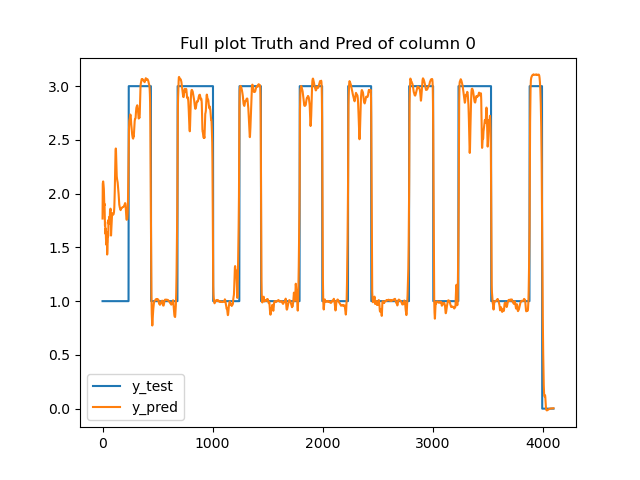
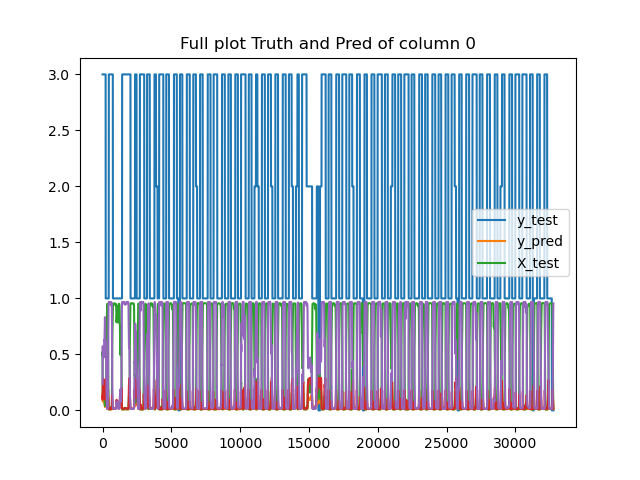
Symbols Classification funktioniert

diff --git a/train_lib_proc.py b/train_lib_proc.py
@@ -88,7 +88,7 @@ def memorize(filename, dataset):
     data = {} # dictionary containing data
     for name in dataset:  # loop over datasets named in list
         print("Memorizing timeseries: ", name)
-        if name in ["symbols", "words", "forbword", "fwshannon", "fwrenyi 0.25",
+        if name in ["symbolsR", "symbolsC", "words", "forbword", "fwshannon", "fwrenyi 0.25",
                     "fwrenyi 4", "wsdvar", "wpsum 02", 
                     "wpsum 13", "plvar 5", "plvar 10", 
                     "plvar 20", "phvar 20", "phvar 50", "phvar 100"]: # we construct non-linear parameters from BBI
@@ -165,7 +165,8 @@ def output_type(dic_seq, OUTPUT_name):
     """
     dic_types = {
         "ECG": "regressionECG", "MA": "regressionMA", "RP": "classificationRP", "BBI": "regressionBBI", 
-        "symbols": "classificationSymbols", "words": "distributionWords",
+        "symbolsR": "regressionSymbols",
+        "symbolsC": "classificationSymbols", "words": "distributionWords",
         "Tacho": "regressionTacho",
         "forbword": "parameter", "fwshannon": "parameter", "fwrenyi 0.25": "parameter",
         "fwrenyi 4": "parameter", "wsdvar": "parameter", "wpsum 02": "parameter", 
@@ -181,7 +182,7 @@ def output_type(dic_seq, OUTPUT_name):
                 # if key == 'RP': # Check ob Symbole einbezogen werden
                 #     out_types.append(dic_types[key] + str(0)) # number columns containing label
                 #     # Important for initializing model, loss function and plotting output
-                if key == 'symbols': # Check ob Symbole einbezogen werden
+                if key == 'symbolsC': # Check ob Symbole einbezogen werden mit Klassifikation
                     out_types.append(dic_types[key] + str(len(np.unique(dic_seq[key+name])))) # number columns containing label
                     # out_types.append(dic_types[key] + str(len(dic_seq[key+name][0,0,:]))) # number columns containing label
                     # out_types.append(dic_types[key] + str(1))
@@ -335,7 +336,7 @@ def constr_feat(data, NAME, length_item):
                         data[key][n]
                     )
                 feat_number += amount_cat - 1
-            if key == 'symbols': # Transform into one-hot vector
+            if 'symbols' in key: # Transform into one-hot vector
                 
                 # diese categorisierung nachbesser
                 # ist noch von BBI analyse
@@ -619,19 +620,16 @@ def setup_Conv_AE_LSTM_P(input_shape, size, samplerate):
         elif 'Tacho' in out_types[x]: # Tachogram regression output
             branch_dic["branch{0}".format(x)] = LSTM(size, return_sequences=True)(pred)
             branch_dic["branch{0}".format(x)] = Dense(1, activation="linear", name="Tacho_output")(branch_dic["branch{0}".format(x)])
-        elif 'classification' in out_types[x]: # symbols classification output
+        elif 'regressionSymbols' in out_types[x]: # symbols regression output
+            branch_dic["branch{0}".format(x)] = LSTM(size, return_sequences=True)(pred)
+            branch_dic["branch{0}".format(x)] = Dense(1, activation="linear", name="Symbols_output")(branch_dic["branch{0}".format(x)])
+        elif 'classificationSymbols' in out_types[x]: # symbols classification output
             branch_dic["branch{0}".format(x)] = LSTM(size, return_sequences=True)(pred)
             # amount_cat = count_cat(x) # counts amount of unique labels in time series
             amount_cat = extract_number(out_types[x]) # extracts number of categories from type-descritpion
             print("Anzahl an Kategorien: ", amount_cat)
-            if 'Symbols' in out_types[x]: # cases of different classifications
-                type_classification = 'Symbols_output'
-                # amount_cat = 4
-            elif 'Words' in out_types[x]:
-                type_classification = 'Words_output'
-            
-            branch_dic["branch{0}".format(x)] = Dense(amount_cat, activation='softmax' , name=type_classification)(branch_dic["branch{0}".format(x)])
-
+            # branch_dic["branch{0}".format(x)] = Flatten()(branch_dic["branch{0}".format(x)])
+            branch_dic["branch{0}".format(x)] = Dense(amount_cat, activation='softmax' , name='Symbols_output')(branch_dic["branch{0}".format(x)])
     
     # Concating outputs
     if len(out_types)>1: # check if multiple feature in output of NN
@@ -898,15 +896,59 @@ def RP_loss(y_true, y_pred):
 def symbols_loss(y_true, y_pred):
     """Custom LOSS function für symbol classification
     
-    
+    Here we use Sparse Crossentropy for every time step seperately and sum them up
+    The function returns a mean of the losses
     """
-    # amount_cat = count_cat(k) # count amount of categories in current classification time series
-    cce = K.losses.SparseCategoricalCrossentropy(from_logits=False) # function for LOSS of choice
-    # cce = K.losses.MeanSquaredError()
-    loss = cce(y_true, y_pred)
-    # tf.print("y_true: ", y_true)
+    sce = K.losses.SparseCategoricalCrossentropy(from_logits=False) # function for LOSS of choice
+    loss = tf.constant(0, dtype=tf.float16)
+    ds_samplerate = int(2**7) # We calculate CrossEntropy of at every second. This way we speed up training. There is a lot of redundancy in one second
+    for time in tf.range(y_true.shape[1], delta=ds_samplerate): # loop over time series with ds_samplerate steps
+        loss += sce(y_true[:,time], y_pred[:,time]) # sparse crossentropy of one time step. Very important. Crossentropy not defined for whole time series
+        
+    return loss/y_true.shape[1]
+
+def symbols_loss_reg(y_true, y_pred):
+        """
+        Custom LOSS function
+
+        Goal:  weighted sum of LOSSes of each Feature
+                - Weights are for different columns of Output Tensor
+                    - Weights decrease for each feature
+                    - this way the gradient for each additional feature is more gentle compared to previous features
+                    - this gives a loose order in which the LOSSes are minimized
+        """
+        
+        diff = (tf.cast(y_true, tf.float16) - y_pred)**2
+        
+        return tf.reduce_mean(diff, axis=-1)
+
+@tf.function
+def symbols_loss_tf(y_true, y_pred):
+    """Custom LOSS function für symbol classification
     
-    return loss
+    VERWORFEN
+    
+    Here we use Sparse Crossentropy for every time step seperately and sum them up
+    The function returns a mean of the losses
+    
+    As a TensorFlow graph for parallesation purposes
+    
+    Zu langsam im Aufbau des Trainings
+    """
+    def body(time, result):
+        sce = K.losses.SparseCategoricalCrossentropy(from_logits=False) # function for LOSS of choice
+        result += sce(y_true[:,time], y_pred[:,time])
+        time += 1
+        return i, result
+
+    def cond(time, result):
+        return time < y_true.shape[1]
+    
+    result = tf.constant(0, dtype=tf.float16)
+    i = tf.constant(0)
+    _, result = tf.while_loop(cond, body, [i, result])
+    
+    return result/y_true.shape[1]
     
 def index(y):
     """transforms one-hot vector into index vector

diff --git a/train_proc.py b/train_proc.py
@@ -113,11 +113,12 @@ def train(total_epochs=250,
                         # "ECG_output": 'MAE',
                         # "BBI_output": 'MAE'
                         # "RP_output": 'binary_accuracy'
-                        "Symbols_output": 'accuracy'
+                        "Symbols_output": 'sparse_categorical_accuracy'
                         })
         
         # Callback
-        escb = EarlyStopping(monitor='accuracy', patience=min(int(total_epochs/2),50), min_delta=0.001, mode="min") # 'Tacho_output_MAE' 'ECG_output_MAE' 'binary_accuracy'
+        # escb = EarlyStopping(monitor='MAE', patience=min(int(total_epochs/2),50), min_delta=0.001, mode="min") # 'Tacho_output_MAE' 'ECG_output_MAE' 'binary_accuracy'
+        escb = EarlyStopping(monitor='sparse_categorical_accuracy', patience=min(int(total_epochs/2),50), min_delta=0.0001, mode="max")
         
         # Train model on training set
         print("Training model...")
@@ -160,6 +161,10 @@ def train(total_epochs=250,
         example = np.random.randint(len(y_test[0][:,0]))
         plt.figure(1)
         plt.title("Full plot Truth and Pred of column 0")
+        if "classificationSymbols" in out_types[0]:
+                sparse_pred = np.array([0,1,2,3]) * y_pred[0]
+                sparse_pred = np.sum(sparse_pred, axis=-1)
+                y_pred[0] = sparse_pred
         plt.plot(list(range(len(y_test[0][0,:]))), y_test[0][example,:])
         plt.plot(list(range(len(y_pred[0][0,:]))), y_pred[0][example,:])
         if "ECG" in out_types[0]:
@@ -180,13 +185,20 @@ def train(total_epochs=250,
                 print("Could not find image name. Raise limit of rand.int above")
         plt.close()
         
-        # Preparation of output if classification of symbols and words was done
-        if "classificationS" in out_types or "distributionW" in out_types:
-            y_pred, dist_pred = tl.index(y_pred)
-            y_test, dist_test = tl.index(y_test)
-            print("Shape of final Output array: ", np.shape(y_test))
+        # # Preparation of output if classification of symbols and words was done
+        # if "classificationS" in out_types or "distributionW" in out_types:
+        #     y_pred, dist_pred = tl.index(y_pred)
+        #     y_test, dist_test = tl.index(y_test)
+        #     print("Shape of final Output array: ", np.shape(y_test))
             
         for k in range(len(y_pred)):
+            if "classificationSymbols" in out_types[k]:
+                sparse_pred = np.array([0,1,2,3]) * y_pred[k]
+                print("Shape of sparse_pred: ", np.shape(sparse_pred))
+                sparse_pred = np.sum(sparse_pred, axis=-1)
+                print("Shape of sparse_pred: ", np.shape(sparse_pred))
+                y_pred[k] = sparse_pred
+                print("Shape of y_pred: ", np.shape(y_pred[k]))
             plt.figure(k)
             plt.title(concat("Zoomed Truth and Pred of column ", str(k)))
             plt.plot(list(range(len(y_test[k][0,-2*samplerate:]))), y_test[k][example,-2*samplerate:])
@@ -210,22 +222,22 @@ def train(total_epochs=250,
             mlflow.log_artifact(path_fig)  # links plot to MLFlow run
             plt.close()
         
-        # Plot of classification of symbols and words output
-        if "classificationS" in out_types or "distributionW" in out_types:
-            print("Shape of hist", np.shape(dist_pred))
-            # in our case we have four symbols in words of three
-            plt.figure(1)
-            plt.title(str("Zoomed Truth and Pred of column distribution of " + data_list[k+1]))
-            plt.bar(np.arange(len(dist_test[0,:]))-0.5, dist_test[example,:])
-            plt.bar(np.arange(len(dist_pred[0,:]))+0.5, dist_pred[example,:])
-            # plt.plot(list(range(len(X_test[0,:,0]))), X_test[0,:,0])
-            plt.legend(["y_Test", "Prediction", "X_Test 0"])
-            name = concat("./ZoomPlot-Col-",str(k+1))
-            plt.savefig(name)
-            path_fig = "./Prediction-Image/" + str(z)+ "-Zoom-col" + str(k+1) + ".png"
-            plt.savefig(path_fig)  # saves plot
-            mlflow.log_artifact(path_fig)  # links plot to MLFlow run
-            plt.close()
+        # # Plot of classification of symbols and words output
+        # if "classificationS" in out_types or "distributionW" in out_types:
+        #     print("Shape of hist", np.shape(dist_pred))
+        #     # in our case we have four symbols in words of three
+        #     plt.figure(1)
+        #     plt.title(str("Zoomed Truth and Pred of column distribution of " + data_list[k+1]))
+        #     plt.bar(np.arange(len(dist_test[0,:]))-0.5, dist_test[example,:])
+        #     plt.bar(np.arange(len(dist_pred[0,:]))+0.5, dist_pred[example,:])
+        #     # plt.plot(list(range(len(X_test[0,:,0]))), X_test[0,:,0])
+        #     plt.legend(["y_Test", "Prediction", "X_Test 0"])
+        #     name = concat("./ZoomPlot-Col-",str(k+1))
+        #     plt.savefig(name)
+        #     path_fig = "./Prediction-Image/" + str(z)+ "-Zoom-col" + str(k+1) + ".png"
+        #     plt.savefig(path_fig)  # saves plot
+        #     mlflow.log_artifact(path_fig)  # links plot to MLFlow run
+        #     plt.close()
             
         # Plot multiple examples
         for l in range(10):

diff --git a/laboratory.py b/laboratory.py
@@ -29,9 +29,9 @@ print("Experiment_id: {}".format(experiment.experiment_id))
 
 train(NNsize=int(2**4), 
       total_epochs=50, 
-      length_item= 2**15, # raise this by using generator for data input in NN. Hopefully
+      length_item= 2**18, # Minimum 2**12. Because calc_symbols needs at leat 2 beats
       # INPUT_name = {"symbols": ["lag 0"]},
-      OUTPUT_name = {'symbols': ["lag 0"]},# 'RP': ["lag 0"]},# ,  "BBI": ["lag 0"]},# "ECG": ["lag 0"], {"BBI":["lag 0"], "symbols": ["lag 0"], "words": ["lag 0"]}, #  "BBI": ["lag 0"] 'Tacho': ["lag 0"], 
+      OUTPUT_name = {'symbolsC': ["lag 0"]},# 'RP': ["lag 0"]},# ,  "BBI": ["lag 0"]},# "ECG": ["lag 0"], {"BBI":["lag 0"], "symbols": ["lag 0"], "words": ["lag 0"]}, #  "BBI": ["lag 0"] 'Tacho': ["lag 0"], 
       Arch = "Conv-AE-LSTM-P") # "LSTM-AE")
 
 # for N in range(16,18,1):
